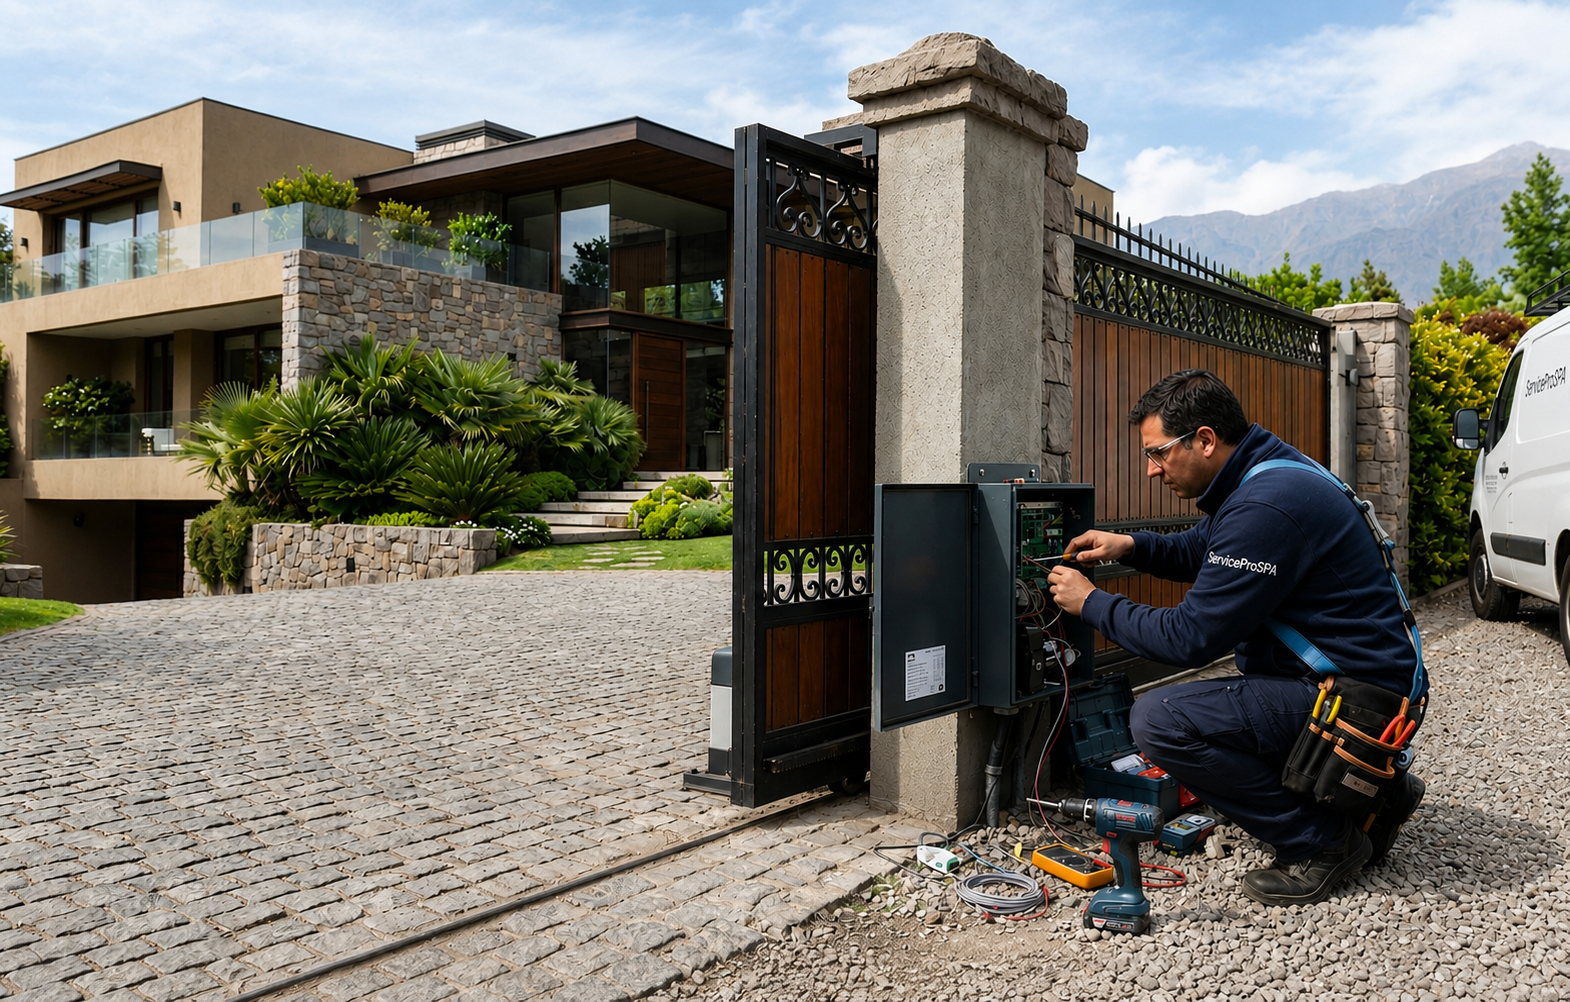
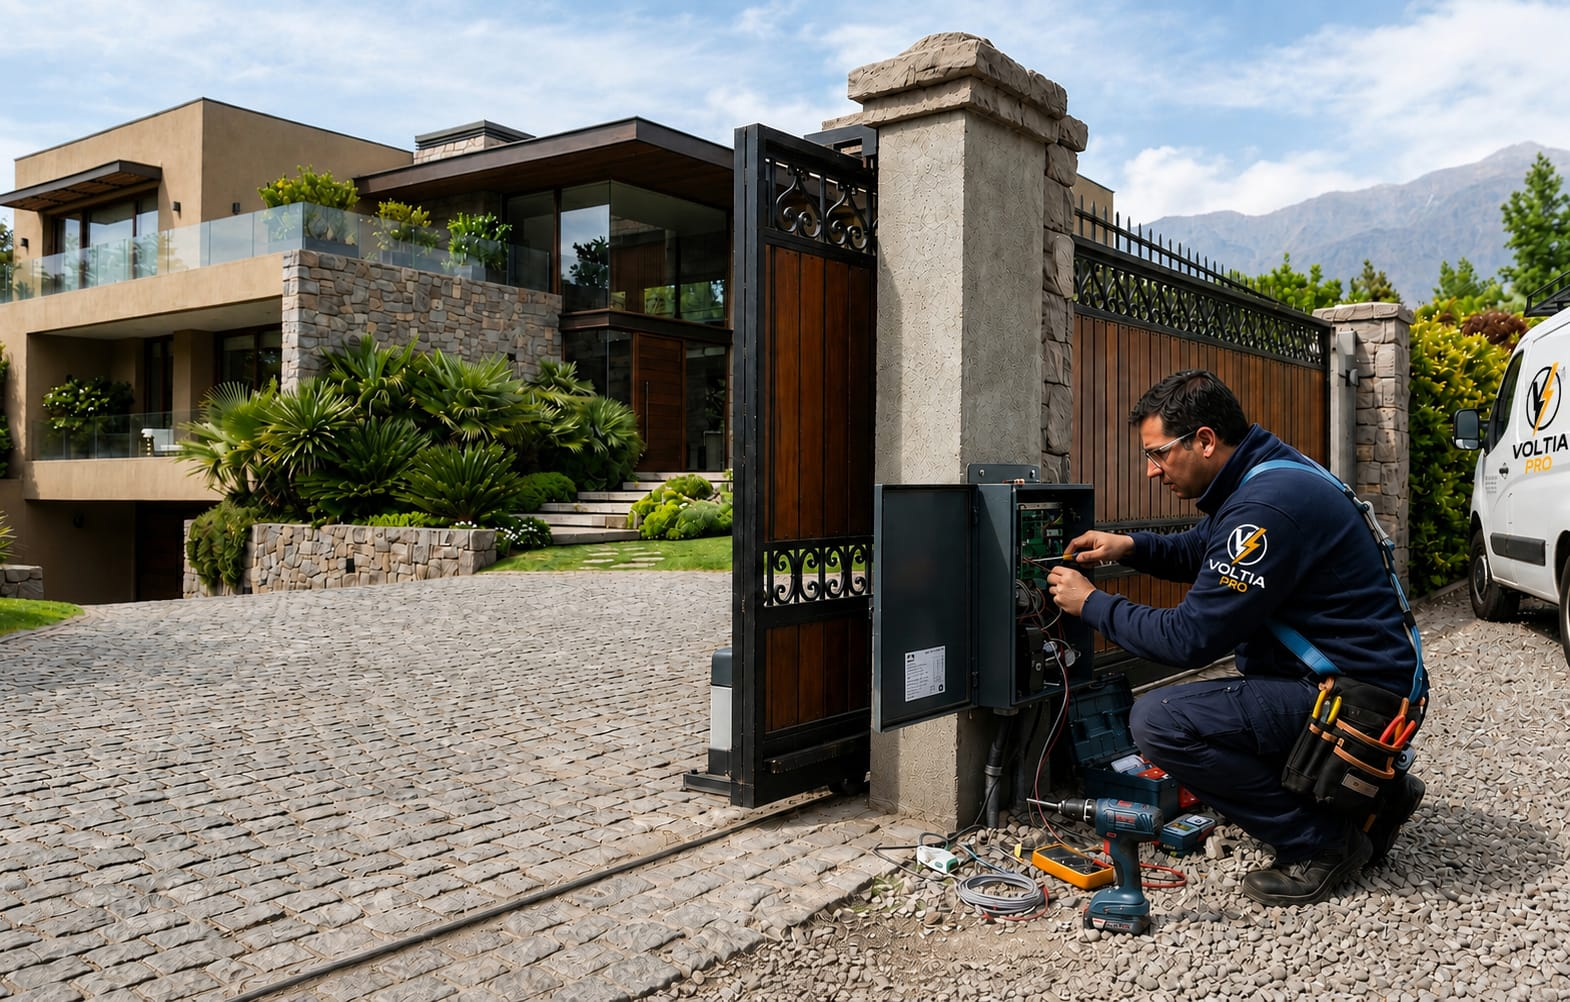
Migrar envío de correos de Nodemailer/SMTP a Resend

diff --git a/routes/ordenes.js b/routes/ordenes.js
@@ -5,15 +5,34 @@
 const express = require('express');
 const router = express.Router();
 const db = require('../db');
-const nodemailer = require('nodemailer');
 
-const transporter = nodemailer.createTransport({
-  service: 'gmail',
-  auth: {
-    user: process.env.GMAIL_USER,
-    pass: process.env.GMAIL_PASS
+// =============================================
+// ENVIAR CORREO CON RESEND
+// Usamos fetch a la API de Resend en vez de Nodemailer/SMTP,
+// porque Render (plan gratis) bloquea las conexiones SMTP salientes.
+// =============================================
+async function enviarCorreo({ to, subject, html }) {
+  const res = await fetch('https://api.resend.com/emails', {
+    method: 'POST',
+    headers: {
+      'Authorization': `Bearer ${process.env.RESEND_API_KEY}`,
+      'Content-Type': 'application/json'
+    },
+    body: JSON.stringify({
+      from: 'Voltia Pro SPA <onboarding@resend.dev>',
+      to,
+      subject,
+      html
+    })
+  });
+
+  if (!res.ok) {
+    const errorBody = await res.text();
+    throw new Error(`Resend error (${res.status}): ${errorBody}`);
   }
-});
+
+  return res.json();
+}
 
 // GET /ordenes — obtener todas
 router.get('/', async (req, res) => {
@@ -124,42 +143,48 @@ router.put('/:id/asignar', async (req, res) => {
       [tecnico_nombre, tecnico_email, req.params.id]
     );
 
-    // Enviar mail al técnico
-    await transporter.sendMail({
-      from: 'serviceprospa777@gmail.com',
-      to: tecnico_email,
-      subject: `⚡ Nueva orden asignada #${orden.id} — Voltia Pro SPA`,
-      html: `
-        <div style="font-family: Arial, sans-serif; max-width: 500px; margin: 0 auto; background: #f9f9f9; padding: 24px; border-radius: 10px;">
-          <h2 style="color: #f97316;">⚡ Voltia Pro SPA</h2>
-          <h3>Hola ${tecnico_nombre}, tienes una nueva orden asignada</h3>
-          <table style="width:100%; border-collapse: collapse;">
-            <tr>
-              <td style="padding: 8px; font-weight: bold; color: #555;">Orden #:</td>
-              <td style="padding: 8px;">${orden.id}</td>
-            </tr>
-            <tr style="background:#fff;">
-              <td style="padding: 8px; font-weight: bold; color: #555;">Cliente:</td>
-              <td style="padding: 8px;">${orden.cliente}</td>
-            </tr>
-            <tr>
-              <td style="padding: 8px; font-weight: bold; color: #555;">Dirección:</td>
-              <td style="padding: 8px;">${orden.direccion}</td>
-            </tr>
-            <tr style="background:#fff;">
-              <td style="padding: 8px; font-weight: bold; color: #555;">Servicios:</td>
-              <td style="padding: 8px;">${orden.servicios || '—'}</td>
-            </tr>
-            <tr>
-              <td style="padding: 8px; font-weight: bold; color: #555;">Observaciones:</td>
-              <td style="padding: 8px;">${orden.observaciones || 'Sin observaciones'}</td>
-            </tr>
-          </table>
-          <p style="margin-top: 20px; color: #333;">Por favor dirígete a la dirección indicada para evaluar el trabajo.</p>
-          <p style="color: #999; font-size: 12px;">Voltia Pro SPA — Sistema de Gestión</p>
-        </div>
-      `
-    });
+    // Enviar mail al técnico (Resend)
+    // Nota: en el plan gratis de Resend sin dominio verificado, esto solo
+    // funciona si tecnico_email es la misma cuenta con la que te registraste.
+    try {
+      await enviarCorreo({
+        to: tecnico_email,
+        subject: `⚡ Nueva orden asignada #${orden.id} — Voltia Pro SPA`,
+        html: `
+          <div style="font-family: Arial, sans-serif; max-width: 500px; margin: 0 auto; background: #f9f9f9; padding: 24px; border-radius: 10px;">
+            <h2 style="color: #f97316;">⚡ Voltia Pro SPA</h2>
+            <h3>Hola ${tecnico_nombre}, tienes una nueva orden asignada</h3>
+            <table style="width:100%; border-collapse: collapse;">
+              <tr>
+                <td style="padding: 8px; font-weight: bold; color: #555;">Orden #:</td>
+                <td style="padding: 8px;">${orden.id}</td>
+              </tr>
+              <tr style="background:#fff;">
+                <td style="padding: 8px; font-weight: bold; color: #555;">Cliente:</td>
+                <td style="padding: 8px;">${orden.cliente}</td>
+              </tr>
+              <tr>
+                <td style="padding: 8px; font-weight: bold; color: #555;">Dirección:</td>
+                <td style="padding: 8px;">${orden.direccion}</td>
+              </tr>
+              <tr style="background:#fff;">
+                <td style="padding: 8px; font-weight: bold; color: #555;">Servicios:</td>
+                <td style="padding: 8px;">${orden.servicios || '—'}</td>
+              </tr>
+              <tr>
+                <td style="padding: 8px; font-weight: bold; color: #555;">Observaciones:</td>
+                <td style="padding: 8px;">${orden.observaciones || 'Sin observaciones'}</td>
+              </tr>
+            </table>
+            <p style="margin-top: 20px; color: #333;">Por favor dirígete a la dirección indicada para evaluar el trabajo.</p>
+            <p style="color: #999; font-size: 12px;">Voltia Pro SPA — Sistema de Gestión</p>
+          </div>
+        `
+      });
+    } catch (mailErr) {
+      // Si el correo falla, igual dejamos al técnico asignado en la BD.
+      console.error('Error enviando correo al técnico (orden igual quedó asignada):', mailErr);
+    }
 
     res.json({ ok: true, mensaje: 'Técnico asignado y notificado correctamente.' });
 

diff --git a/service-pro-frontend/js/admin.js b/service-pro-frontend/js/admin.js
@@ -11,7 +11,7 @@ let todasLasOrdenes = [];
 // =============================================
 document.addEventListener('DOMContentLoaded', () => {
   // Verificar que sea admin
-  const usuario = JSON.parse(localStorage.getItem('usuario') || '{}');
+  const usuario = JSON.parse(sessionStorage.getItem('usuario') || '{}');
   if (!usuario || usuario.rol !== 'admin') {
     alert('Acceso denegado. Solo administradores.');
     window.location.href = 'login.html';
@@ -53,7 +53,7 @@ function mostrarSeccion(id) {
 // =============================================
 async function cargarDashboard() {
   try {
-    const token = localStorage.getItem('token');
+    const token = sessionStorage.getItem('token');
     const headers = { 'Authorization': `Bearer ${token}` };
 
     const [resOrdenes, resUsuarios] = await Promise.all([
@@ -114,7 +114,7 @@ function renderTablaRecientes(ordenes) {
 // =============================================
 async function cargarOrdenes() {
   try {
-    const token = localStorage.getItem('token');
+    const token = sessionStorage.getItem('token');
     const res = await fetch(`${API}/ordenes`, {
       headers: { 'Authorization': `Bearer ${token}` }
     });
@@ -165,7 +165,7 @@ function filtrarOrdenes() {
 async function cambiarEstado(ordenId, nuevoEstado) {
   if (!nuevoEstado) return;
   try {
-    const token = localStorage.getItem('token');
+    const token = sessionStorage.getItem('token');
     await fetch(`${API}/ordenes/${ordenId}/estado`, {
       method: 'PUT',
       headers: {
@@ -207,7 +207,7 @@ async function asignarTecnico() {
   }
 
   try {
-    const token = localStorage.getItem('token');
+    const token = sessionStorage.getItem('token');
     const res = await fetch(`${API}/ordenes/${ordenId}/asignar`, {
       method: 'PUT',
       headers: {
@@ -235,7 +235,7 @@ async function asignarTecnico() {
 // =============================================
 async function cargarUsuarios() {
   try {
-    const token = localStorage.getItem('token');
+    const token = sessionStorage.getItem('token');
     const res = await fetch(`${API}/users`, {
       headers: { 'Authorization': `Bearer ${token}` }
     });
@@ -264,7 +264,7 @@ async function cargarUsuarios() {
 // =============================================
 async function cargarMensajes() {
   try {
-    const token = localStorage.getItem('token');
+    const token = sessionStorage.getItem('token');
     const res = await fetch(`${API}/mensajes`, {
       headers: { 'Authorization': `Bearer ${token}` }
     });
@@ -292,7 +292,7 @@ async function cargarMensajes() {
 // CERRAR SESIÓN
 // =============================================
 function cerrarSesion() {
-  localStorage.removeItem('token');
-  localStorage.removeItem('usuario');
+  sessionStorage.removeItem('token');
+  sessionStorage.removeItem('usuario');
   window.location.href = 'login.html';
 }

diff --git a/service-pro-frontend/js/chatbot.js b/service-pro-frontend/js/chatbot.js
@@ -43,7 +43,7 @@ const chatbotData = [
 // =============================================
 function obtenerUsuario() {
   try {
-    const token = localStorage.getItem('token');
+    const token = sessionStorage.getItem('token');
     if (!token) return null;
 
     // Decodificar payload del JWT (sin verificar firma, solo leer datos)
@@ -51,8 +51,8 @@ function obtenerUsuario() {
 
     // Verificar que no haya expirado
     if (payload.exp * 1000 < Date.now()) {
-      localStorage.removeItem('token');
-      localStorage.removeItem('usuario');
+      sessionStorage.removeItem('token');
+      sessionStorage.removeItem('usuario');
       return null;
     }
 
@@ -194,7 +194,7 @@ function enviarMensajeLibre() {
       method: 'POST',
       headers: {
         'Content-Type': 'application/json',
-        'Authorization': `Bearer ${localStorage.getItem('token')}`
+        'Authorization': `Bearer ${sessionStorage.getItem('token')}`
       },
       body: JSON.stringify({
         nombre: usuario.nombre,

diff --git a/service-pro-frontend/dashboard.html b/service-pro-frontend/dashboard.html
@@ -79,7 +79,7 @@
 <script src="js/app.js"></script>
 <script src="js/chatbot.js"></script>
 <script>
-  const usuario = JSON.parse(localStorage.getItem('usuario') || '{}');
+  const usuario = JSON.parse(sessionStorage.getItem('usuario') || '{}');
   if (usuario && usuario.nombre) {
     document.getElementById('nombre-usuario').textContent = usuario.nombre;
     document.getElementById('nav-usuario').textContent = '👤 ' + usuario.nombre;
@@ -87,8 +87,8 @@
     window.location.href = 'login.html';
   }
   function cerrarSesion() {
-    localStorage.removeItem('token');
-    localStorage.removeItem('usuario');
+    sessionStorage.removeItem('token');
+    sessionStorage.removeItem('usuario');
     window.location.href = 'login.html';
   }
 </script>

diff --git a/service-pro-frontend/oauth-callback.html b/service-pro-frontend/oauth-callback.html
@@ -15,7 +15,7 @@
     const token = params.get('token');
 
     if (token) {
-      localStorage.setItem('token', token);
+      sessionStorage.setItem('token', token);
 
       // Decodificar el token para obtener el rol (maneja UTF-8 correctamente, ej. ñ, tildes)
       const base64 = token.split('.')[1].replace(/-/g, '+').replace(/_/g, '/');
@@ -26,7 +26,7 @@
           .join('')
       );
       const payload = JSON.parse(jsonPayload);
-      localStorage.setItem('usuario', JSON.stringify(payload));
+      sessionStorage.setItem('usuario', JSON.stringify(payload));
 
       // Redirigir según el rol
       if (payload.rol === 'admin') {
@@ -40,4 +40,4 @@
     }
   </script>
 </body>
-</html> // test auto-deploy
+</html>

diff --git a/service-pro-frontend/js/app.js b/service-pro-frontend/js/app.js
@@ -153,8 +153,8 @@ function login() {
       mostrarError('password', data.error);
     } else {
       // Guardar token y datos del usuario
-      localStorage.setItem('token', data.token);
-      localStorage.setItem('usuario', JSON.stringify(data.usuario));
+      sessionStorage.setItem('token', data.token);
+      sessionStorage.setItem('usuario', JSON.stringify(data.usuario));
       // Redirigir según rol
       if (data.usuario.rol === 'admin') {
         window.location.href = 'admin.html';
